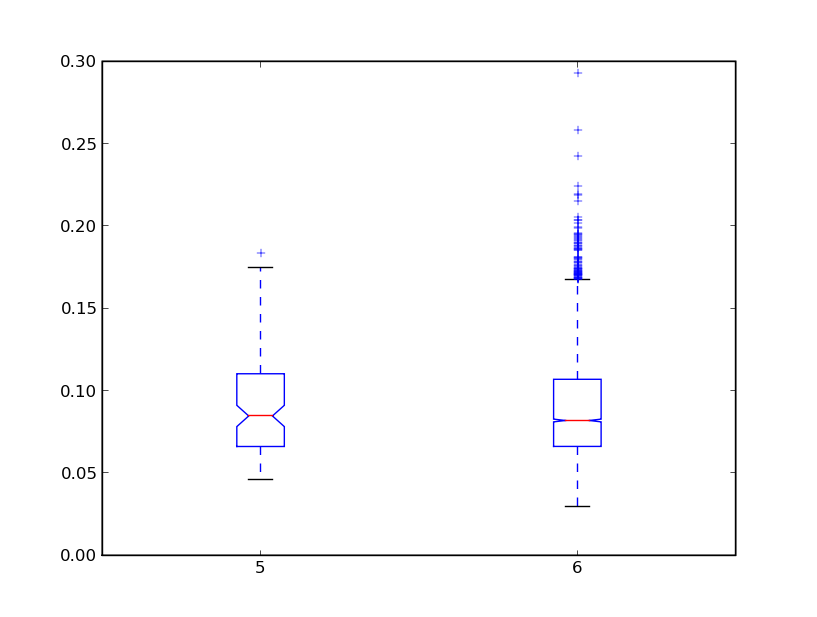
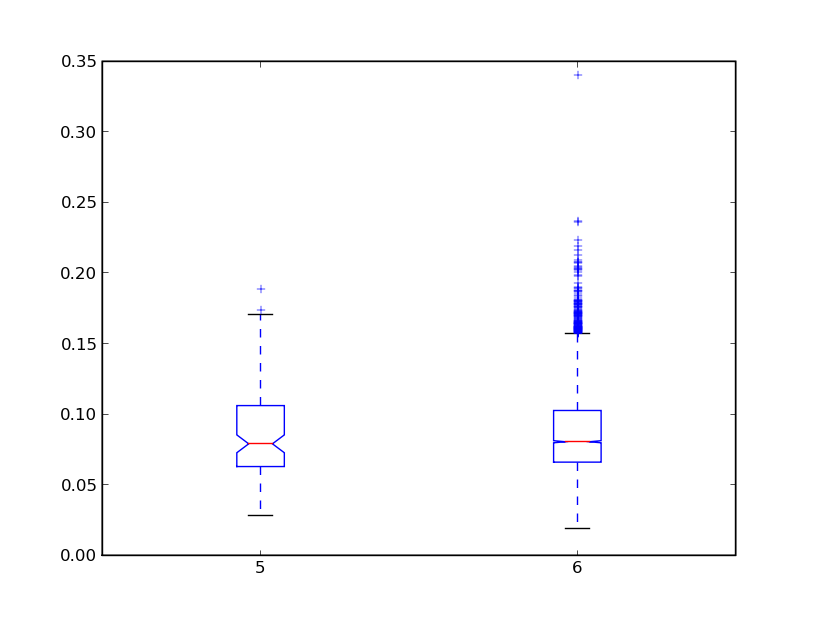
addressing problems cause by bad data.  All data files now have exactly 25k observations.  It didn't effect IV all that much!  This is a good thing.

diff --git a/draft/results.tex b/draft/results.tex
@@ -51,15 +51,15 @@ internal variance responds to uniformly distributed data.
   \multicolumn{1}{c|}{\textbf{20}}\\
   \hline
   \hline
-  \textbf{0} & 0.0206& 0.2796& 0.7300& 1.4173 \\
+  \textbf{0} & 0.0206& 0.2776& 0.7299& 1.4168 \\
   \hline
-  \textbf{2} & 0.0114& 0.1140& 0.2598& 0.4930 \\
+  \textbf{2} & 0.0112& 0.1095& 0.2687& 0.4829 \\
   \hline
-  \textbf{5} & 0.0116& 0.0989& 0.2213& 0.4623 \\
+  \textbf{5} & 0.0108& 0.0961& 0.2260& 0.4281 \\
   \hline
-  \textbf{10} & 0.0117& 0.0920& 0.2071& 0.4207 \\
+  \textbf{10} & 0.0113& 0.0914& 0.2055& 0.4129 \\
   \hline
-  \textbf{20} & 0.0120& 0.0851& 0.2020& 0.4059 \\
+  \textbf{20} & 0.0112& 0.0868& 0.2004& 0.3970 \\
   \hline
   \end{tabular}
   \label{ivtable:rook}
@@ -73,15 +73,15 @@ internal variance responds to uniformly distributed data.
   \multicolumn{1}{c|}{\textbf{20}}\\
   \hline
   \hline
-  \textbf{0} & 0.0205& 0.2784& 0.7336& 1.4192 \\
+  \textbf{0} & 0.0205& 0.2786& 0.7295& 1.4189 \\
   \hline
-  \textbf{2} & 0.0109& 0.1134& 0.2585& 0.4930 \\
+  \textbf{2} & 0.0109& 0.1108& 0.2683& 0.4813 \\
   \hline
-  \textbf{5} & 0.0111& 0.0997& 0.2229& 0.4598 \\
+  \textbf{5} & 0.0101& 0.0960& 0.2243& 0.4269 \\
   \hline
-  \textbf{10} & 0.0114& 0.0922& 0.2085& 0.4236 \\
+  \textbf{10} & 0.0108& 0.0902& 0.2049& 0.4128 \\
   \hline
-  \textbf{20} & 0.0117& 0.0860& 0.2008& 0.4041 \\
+  \textbf{20} & 0.0112& 0.0861& 0.2019& 0.3969 \\
   \hline
   \end{tabular}
   \label{ivtable1:hex}
@@ -95,15 +95,15 @@ internal variance responds to uniformly distributed data.
   \multicolumn{1}{c|}{\textbf{20}}\\
   \hline
   \hline
-  \textbf{0} & 0.0207& 0.2661& 0.7131& 1.3997 \\
+  \textbf{0} & 0.0207& 0.2650& 0.7124& 1.3983 \\
   \hline
-  \textbf{2} & 0.0106& 0.1106& 0.2550& 0.4872 \\
+  \textbf{2} & 0.0108& 0.1079& 0.2644& 0.4768 \\
   \hline
-  \textbf{5} & 0.0117& 0.0968& 0.2194& 0.4557 \\
+  \textbf{5} & 0.0104& 0.0950& 0.2231& 0.4213 \\
   \hline
-  \textbf{10} & 0.0118& 0.0910& 0.2051& 0.4174 \\
+  \textbf{10} & 0.0110& 0.0888& 0.2040& 0.4105 \\
   \hline
-  \textbf{20} & 0.0123& 0.0844& 0.1989& 0.4017 \\
+  \textbf{20} & 0.0117& 0.0841& 0.2007& 0.3953 \\
   \hline
   \end{tabular} 
   \label{ivtable1:graph}
@@ -117,15 +117,15 @@ internal variance responds to uniformly distributed data.
   \multicolumn{1}{c|}{\textbf{20}}\\
   \hline
   \hline
-  \textbf{0} & 0.0207& 0.2657& 0.7140& 1.3981 \\
+  \textbf{0} & 0.0208& 0.2659& 0.7135& 1.3983 \\
   \hline
-  \textbf{2} & 0.0111& 0.1110& 0.2553& 0.4870 \\
+  \textbf{2} & 0.0108& 0.1068& 0.2641& 0.4778 \\
   \hline
-  \textbf{5} & 0.0112& 0.0966& 0.2204& 0.4546 \\
+  \textbf{5} & 0.0105& 0.0945& 0.2226& 0.4222 \\
   \hline
-  \textbf{10} & 0.0117& 0.0908& 0.2058& 0.4183 \\
+  \textbf{10} & 0.0111& 0.0871& 0.2032& 0.4108 \\
   \hline
-  \textbf{20} & 0.0120& 0.0857& 0.1995& 0.3994 \\
+  \textbf{20} & 0.0117& 0.0849& 0.1993& 0.3945 \\
   \hline
   \end{tabular}
   \label{ivtable1:geodesic}
@@ -173,25 +173,25 @@ internal variance measurements for neurons with only two neighbors.
 \textbf{Simulation Number} & Geodesic & Spherical & Hex & Rook \\
 \hline
 \hline
-\textbf{1} & 0.0908 & 0.0910 & 0.0922 & 0.0920 \\
+\textbf{1} & 0.0871 & 0.0888 & 0.0902 & 0.0914 \\
 \hline
-\textbf{2} & 0.0875 & 0.0874 & 0.0887 & 0.0886 \\
+\textbf{2} & 0.0873 & 0.0877 & 0.0871 & 0.0879 \\
 \hline
-\textbf{3} & 0.0807 & 0.0809 & 0.0813 & 0.0814 \\
+\textbf{3} & 0.0772 & 0.0782 & 0.0781 & 0.0779 \\
 \hline
-\textbf{4} & 0.0816 & 0.0812 & 0.0834 & 0.0823 \\
+\textbf{4} & 0.0897 & 0.0889 & 0.0876 & 0.0912 \\
 \hline
-\textbf{5} & 0.0912 & 0.0907 & 0.0927 & 0.0929 \\
+\textbf{5} & 0.0864 & 0.0876 & 0.0875 & 0.0866 \\
 \hline
-\textbf{6} & 0.0943 & 0.0938 & 0.0966 & 0.0944 \\
+\textbf{6} & 0.0826 & 0.0839 & 0.0859 & 0.0851 \\
 \hline
-\textbf{7} & 0.0905 & 0.0908 & 0.0916 & 0.0929 \\
+\textbf{7} & 0.0902 & 0.0905 & 0.0921 & 0.0920 \\
 \hline
-\textbf{8} & 0.0789 & 0.0792 & 0.0798 & 0.0797 \\
+\textbf{8} & 0.1001 & 0.1000 & 0.1005 & 0.0999 \\
 \hline
-\textbf{9} & 0.0984 & 0.0974 & 0.0994 & 0.1001 \\
+\textbf{9} & 0.0805 & 0.0807 & 0.0818 & 0.0827 \\
 \hline
-\textbf{10} & 0.0900 & 0.0897 & 0.0917 & 0.0910 \\
+\textbf{10} & 0.0929 & 0.0925 & 0.0937 & 0.0951 \\
 \hline
 \end{tabular} \end{table}
 
@@ -257,12 +257,12 @@ different between in the groups.
 & N & Mean (Var) & N & Mean (Var) & N & Mean (Var) & N & Mean (Var) \\
 
 \hline
-2&&&&& 20& 0.1109 (0.0010)& 40& 0.1123 (0.0007)\\ 
-3&&&&& 223& 0.1054 (0.0010)& 918& 0.0997 (0.0009)\\ 
-4&&&&& 507& 0.0980 (0.0009)& 5138& 0.0875 (0.0009)\\ 
-5& 115& 0.0898 (0.0009)& 557& 0.0886 (0.0009)& 208& 0.0921 (0.0008)&&\\ 
-6& 5929& 0.0884 (0.0009)& 5034& 0.0883 (0.0009)& 5184& 0.0881 (0.0009)&&\\ 
-7&&& 437& 0.0873 (0.0009)&&&&\\ 
+2&&&&& 20& 0.1155 (0.0010)& 40& 0.1023 (0.0007)\\ 
+3&&&&& 224& 0.1049 (0.0012)& 922& 0.0958 (0.0010)\\ 
+4&&&&& 512& 0.1001 (0.0011)& 5227& 0.0877 (0.0010)\\ 
+5& 115& 0.0876 (0.0013)& 563& 0.0875 (0.0010)& 209& 0.0935 (0.0011)&&\\ 
+6& 6007& 0.0874 (0.0009)& 5124& 0.0880 (0.0010)& 5233& 0.0863 (0.0010)&&\\ 
+7&&& 445& 0.0875 (0.0011)&&&&\\ 
 %2&&&&& 20& 0.1109& 40& 0.1123\\ 
 %3&&&&& 223& 0.1054& 918& 0.0997\\ 
 %4&&&&& 507& 0.0980& 5138& 0.0875\\ 
@@ -282,7 +282,8 @@ different between in the groups.
 \begin{table}
 \centering
 \caption{These tables show the difference in means between each group of a
-given topology and the significance of the difference,  delta (p-Value), t=9999}
+given topology and the significance of the difference,  delta (significance),
+t=9999, *** = 99\%, ** = 95\%, * = 90\%}
 \label{rlt}
   \subtable[Rook Topology]{
     \label{rlt:rook}
@@ -290,8 +291,8 @@ given topology and the significance of the difference,  delta (p-Value), t=9999}
     \hline
     &3&4\\\hline
     \hline
-    2& 0.0127 (0.0060)& 0.0248 (0.0010)\\\hline
-    3& & 0.0121 (0.0010)\\\hline
+    2& 0.0065& \textbf{0.0147} ***\\\hline
+    3& & \textbf{0.0082} ***\\\hline
   \end{tabular}
   }
 
@@ -301,10 +302,10 @@ given topology and the significance of the difference,  delta (p-Value), t=9999}
     \hline
     &3&4&5&6\\ \hline
     \hline
-    2& 0.0055 (0.2270)& 0.0130 (0.0370)& 0.0189 (0.0030)& 0.0229 (0.0030)\\\hline
-    3& & 0.0075 (0.0040)& 0.0134 (0.0010)& 0.0173 (0.0010)\\\hline
-    4& & & 0.0059 (0.0120)& 0.0099 (0.0010)\\\hline
-    5& & & & 0.0040 (0.0400)\\\hline
+    2& 0.0106& \textbf{0.0154} **& \textbf{0.0220} ***& \textbf{0.0292} ***\\\hline
+    3& & \textbf{0.0048} *& \textbf{0.0114} ***& \textbf{0.0186} ***\\\hline
+    4& & & \textbf{0.0066} **& \textbf{0.0138} ***\\\hline
+    5& & & & \textbf{0.0072} ***\\\hline
     \end{tabular}
   }
 
@@ -314,8 +315,9 @@ given topology and the significance of the difference,  delta (p-Value), t=9999}
     \hline
     &6&7\\ \hline
     \hline
-    5& 0.0004 (0.4180)& 0.0014 (0.2380)\\\hline
-    6& & 0.0010 (0.2450)\\\hline
+    5& 0.0005& 0.0000\\\hline
+    6& & 0.0005\\\hline
+
     \end{tabular}
   }
 
@@ -325,7 +327,7 @@ given topology and the significance of the difference,  delta (p-Value), t=9999}
     \hline
     &6\\ \hline
     \hline
-    5& 0.0015 (0.3090)\\\hline
+    5& 0.0001\\\hline
     \end{tabular}
   }
 \end{table}

diff --git a/code/thesis.py b/code/thesis.py
@@ -61,13 +61,13 @@ def q2(ivDataList):
     return groups,reg
     
 
-def gload(dims,clusters,testNum=0,type='graph',path='testResults/'):
+def gload(dims,clusters,testNum=0,type='graph',path='../data/trainedSOMs/'):
     """ Utility Function for loading a SOM that uses the networkx Graph Topology"""
-    f = ObsFile('testData/%sd-%dc-no%d_rs.dat'%(dims,clusters,testNum),'complete')
+    f = ObsFile('../data/trainingData/%sd-%dc-no%d_rs.dat'%(dims,clusters,testNum),'complete')
     s = GraphTopology()
     s.load(path,'%s_%dd-%dc-no%d_1m'%(type,dims,clusters,testNum))
     return s,f
-def stats(dims,clusters,testNum=0,type='graph',path='testResults/'):
+def stats(dims,clusters,testNum=0,type='graph',path='../data/trainedSOMs/'):
     """ Utility function Called by q1 
         this function wraps getIVdata function."""
     print type,dims,clusters
@@ -75,7 +75,7 @@ def stats(dims,clusters,testNum=0,type='graph',path='testResults/'):
     IV,Groups,Degs = getIVdata(s,f)
     f.close()
 
-    f = open('q1Results/%s_%dd_%dc_no%d.iv'%(type,dims,clusters,testNum),'w')
+    f = open('../data/ivFiles/%s_%dd_%dc_no%d.iv'%(type,dims,clusters,testNum),'w')
     data = [map(str,line) for line in IV]
     data = [','.join(line) for line in data]
     data = '\n'.join(data)+'\n'
@@ -87,7 +87,7 @@ def q1():
         This function simply ensures that the IV has been calculated
         and saved in the q1Results folder.
     """
-    files = os.listdir('testResults')
+    files = os.listdir('../data/trainedSOMs')
     for file in files:
         #if '_1m.' in file and '5d-10c' in file and file[-4:] == '.cod':
         if '_1m.' in file and file[-4:] == '.cod':
@@ -97,7 +97,7 @@ def q1():
             d = int(d[:-1])
             c = int(c[:-1])
             n = int(n[2:])
-            if os.path.exists('q1Results/%s_%dd_%dc_no%d.iv'%(type,d,c,n)):
+            if os.path.exists('../data/ivFiles/%s_%dd_%dc_no%d.iv'%(type,d,c,n)):
                 pass
             else:
                 stats(d,c,n,type)
@@ -113,7 +113,7 @@ class IVName:
     def tdcn(self):
         return (self.type,self.dims,self.clusters,self.number)
 
-def q1TableSet2(path='q1Results',dims=5,clusters=10,noMean=False):
+def q1TableSet2(path='../data/ivFiles',dims=5,clusters=10,noMean=False):
     """ This function produces a latex Table showing the mean IV for each som by topology and test number.
 
     It returns a dictionary object containing these mean IV values organizing by, topology and test number.  This may be useful in the future."""
@@ -164,7 +164,7 @@ def q1TableSet2(path='q1Results',dims=5,clusters=10,noMean=False):
 
     return d
 
-def q1Joins(path='q1Results',dims=5,clusters=10):
+def q1Joins(path='../data/ivFiles',dims=5,clusters=10):
     """ This function creates the main data structure for questions related to
         research question 1.
 
@@ -192,7 +192,7 @@ def q1Joins(path='q1Results',dims=5,clusters=10):
             d[type][deg] = array(l)
     return d
 
-def q1BOX(path='q1Results',ttype='graph'):
+def q1BOX(path='../data/ivFiles',ttype='graph'):
     """ This function produces a table. It scans the contents of the q1Results folder, which should contain the internal variance results for all the trained soms.  It calcs the mean IV for each and puts them in a latex table (for the given topology)"""
     files = os.listdir(path)
     files.pop(0)
@@ -217,7 +217,7 @@ def q1BOX(path='q1Results',ttype='graph'):
             data = N.array(data)
             x = data[:,0]
             y = data[:,1]
-            if number == 0:
+            if number == 0: #If we have mutiple test numbers, only use test 0!
                 d[dims][clusters] = y.mean()
 
     dims = d.keys()
@@ -253,9 +253,9 @@ def rLabelMean(a,b,t=9999):
     deltas = []
     for i in range(t):
         shuffle(c)
-        delta = (c[:na].mean() - c[na:].mean())
+        delta = abs(c[:na].mean() - c[na:].mean())
         deltas.append(delta)
-    realMean = (a.mean()-b.mean())
+    realMean = abs(a.mean()-b.mean())
     deltas.append(realMean)
     deltas.sort()
     i = deltas.index(realMean)
@@ -284,7 +284,16 @@ def rLabelTables(topoData,tname):
             elif a>b:
                 s+="& "
             else:
-                s+='& %.4f (%.4f)'%rLabelMean(topoData[a],topoData[b],t=999)
+                #s+='& %.4f (%.4f)'%rLabelMean(topoData[a],topoData[b],t=999)
+                delta,p = rLabelMean(topoData[a],topoData[b],t=9999)
+                if p <= 0.01:
+                    s+= '& \\textbf{%.4f} ***'%delta
+                elif p <= 0.05:
+                    s+= '& \\textbf{%.4f} **'%delta
+                elif p <= 0.10:
+                    s+= '& \\textbf{%.4f} *'%delta
+                else:
+                    s+= '& %.4f'%delta
         print s+'\\\\\\hline'
     print "  \end{tabular}"
     print "}"
@@ -374,29 +383,52 @@ if __name__=="__main__":
     #This function should always be run.
     # It does nothing unless the IV files have been removed,
     # or new test cases have been added.
-    #q1() 
+    q1() 
 
+    #####
+    """ Create Mean Instanl Variance Table, 4.1 """
+    #####
+    # graph = q1BOX(ttype='graph')
+    # rook = q1BOX(ttype='rook')
+    # hex = q1BOX(ttype='hex')
+    # geodesic = q1BOX(ttype='geodesic')
+    #####
+    #####
 
+    #####
+    """ Create Mean IV for each simulation table, 4.2 """
+    #####
+    # data = q1TableSet2()
+    #####
+    #####
 
-    #data = q1p()
-    #a = stats(2,10,0)
-    #a = stats(2,20,0)
-    #b = stats(2,10,0,'rook')
-    #b = stats(2,20,0,'rook')
-    #graph = q1BOX()
-    print
-    print
-    print
-    #graph = q1BOX(ttype='graph')
-    #rook = q1BOX(ttype='rook')
-    #hex = q1BOX(ttype='hex')
-    #geodesic = q1BOX(ttype='geodesic')
-    #data = q1TableSet2()
-    q1Data = q1Joins()
-    createGroupBasedMeanIVTable(q1Data)
-    #createBoxPlots(q1Data)
-    #rLabelTables(q1Data['rook'],'rook')
-    #rLabelTables(q1Data['graph'],'graph')
-    #rLabelTables(q1Data['hex'],'hex')
-    #rLabelTables(q1Data['geodesic'],'geodesic')
-    
+    #####
+    """ Create data structure for research question 1 functions """
+    #####
+    # q1Data = q1Joins()
+    #####
+    #####
+
+    #####
+    """ Create box plots for question 1, Figure 4.1 """
+    #####
+    # createBoxPlots(q1Data)
+    #####
+    #####
+
+    #####
+    """ Create Mean and Var IV grouped by degree, Table 4.3 """
+    #####
+    # createGroupBasedMeanIVTable(q1Data)
+    #####
+    #####
+
+    #####
+    """ Create differance table, 4.4 """
+    #####
+    # rLabelTables(q1Data['rook'],'rook')
+    # rLabelTables(q1Data['hex'],'hex')
+    # rLabelTables(q1Data['graph'],'graph')
+    # rLabelTables(q1Data['geodesic'],'geodesic')
+    #####
+    #####

diff --git a/draft/thesis.tex b/draft/thesis.tex
@@ -224,6 +224,8 @@ Charles R. Schmidt
 %\end{acknowledgements}
 
 % This includes body.tex
+%The textheight is \showthe\textheight.
+%The textWidth is \showthe\textwidth.
 \input{intro}
 \input{background}
 \input{methods}
